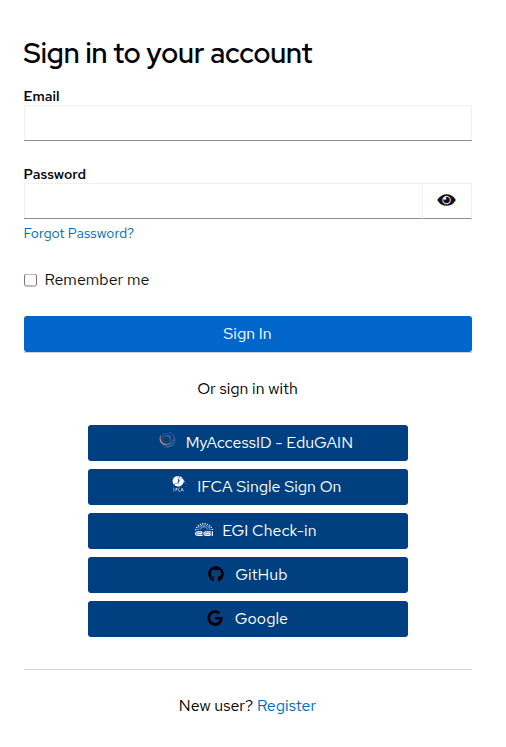
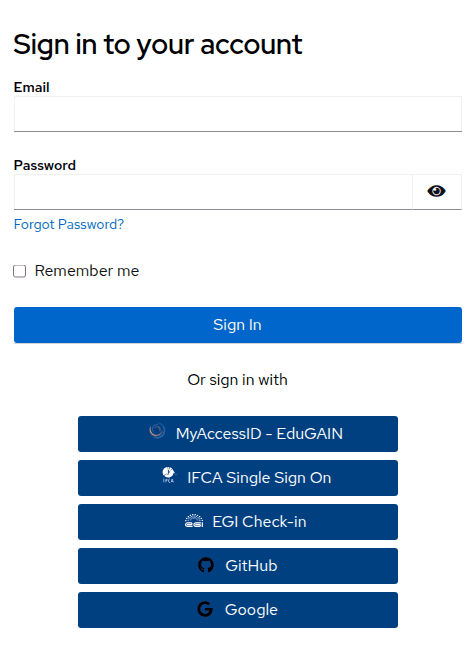
docs: enforce institutional accounts

diff --git a/source/getting-started/register.rst b/source/getting-started/register.rst
@@ -64,29 +64,26 @@ For first time users, we recommend login with either one of the following two pr
     You will need to wait until you are **approved** before being a full member of the VO.
 
 
-Additionally, we offer several federated authentication options including:
-:fab:`github` `Github <https://github.com/>`__,
-:fab:`google` `Google <https://accounts.google.com/>`__,
-|ifca| `IFCA SSO <https://sso.ifca.es>`__ and
-manual registration.
-Accounts created with any of these methods will only be granted :doc:`basic access level </reference/user-access-levels>` by default.
+Additionally, we offer other options for first-time registration including:
+|ifca| `IFCA SSO <https://sso.ifca.es>`__.
 
-.. dropdown::  💡 Register an account manually
+.. admonition:: Subsequent logins
+   :class: info
 
-   To register a new account manually:
+   Since the platform aims at people registering with their institutional accounts, the
+   :fab:`github` `Github <https://github.com/>`__ and
+   :fab:`google` `Google <https://accounts.google.com/>`__ are **not allowed for first-time account creation**.
+   This means that if you try to use them for registering a new account, you will be shown an error message similar to:
 
-   * Click on the ``Register`` button on the login page,
-   * Please provide all the details that are listed in the registration form and preferably use your **institutional account** (university, research center).
-   * After you have filled in all the details, click on the ``Register`` button. You will receive an email with a link to confirm your registration. Click on the link to confirm your registration.
+   ``We are sorry... User ***@gmail.com authenticated with identity provider google does not exist. Please contact your administrator.``
 
-   Once created, you can input your credentials using the ``Sign In`` option, at the top of the page.
+   So you will need to first create an account with one of the above options.
+   However :fab:`github` `Github <https://github.com/>`__ and :fab:`google` `Google <https://accounts.google.com/>`__  are *allowed for subsequent logins*, as long as they share the **same institutional email with you initial identity provider**.
+   
+   So you can authenticate the first time with EduGain, then can subsequently authenticate with any other option (eg. Github), as long as they share the same email.
+   If you prefer, you can also manually link your accounts in the `AI4EOSC Profile manager <https://login.cloud.ai4eosc.eu/realms/ai4eosc/account/#/account-security/linked-accounts>`__.
 
-.. tip::
-
-  Accounts are mapped by email. So you can authenticate the first time with EduGain, then can subsequently authenticate with any other option (eg. Github), as long as they share the same email.
-  If you prefer, you can also manually link your accounts in the `AI4EOSC Profile manager <https://login.cloud.ai4eosc.eu/realms/ai4eosc/account/#/account-security/linked-accounts>`__.
-
-In summary, each authentication system will grant different :doc:`user access levels </reference/user-access-levels>`.
+In summary, each authentication flow will grant different :doc:`user access levels </reference/user-access-levels>`.
 In short:
 
 * users coming from the of the supported projects will have **full access** level.
@@ -95,7 +92,7 @@ In short:
   .. include:: /snippets/supported-projects.rst
 
 * user coming from |myaccessid| `EduGain <https://edugain.org/>`__ will have **intermediate access** level.
-* remaining users (eg. :fab:`github` `Github <https://github.com/>`__, :fab:`google` `Google <https://accounts.google.com/>`__, |ifca| `IFCA SSO <https://sso.ifca.es>`__ and manual registration) will only have **basic access** level (observers).
+* remaining users (eg. |ifca| `IFCA SSO <https://sso.ifca.es>`__) will only have **basic access** level (observers).
 
 We are also able to :ref:`upgrade the access level of selected users <reference/user-access-levels:Option 2. Make a special request>` with interesting usecases, even if they are not members of a selected project.
 
